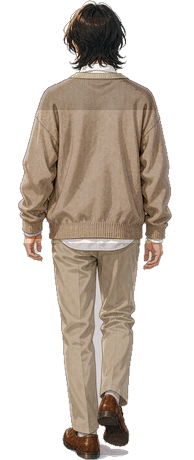
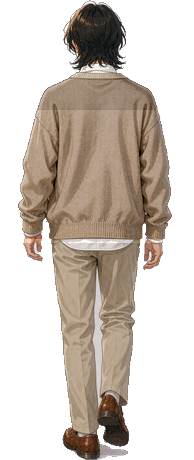
fix: 立绘毛边与领口发黑；门口「进入XX」标签可直接点击
两件事：

1) 毛边：web 端 standeeTexture 加载后用 matteStandee 再抠一次。离线素材本来就有
   透明底，泛洪什么也没干，但最后那段「边缘 alpha 强制 168」把所有抗锯齿边缘
   钉成半透明，而它们的 RGB 还混着白底 → 草地上出现一圈浅灰描边。
   改成先测四角 alpha，已经是透明底就直接用原图，不再走 matteStandee。

2) 领口发黑：之前统一明度增益把白衬衫也压暗了（衬衫中位 211,201,192，
   阴影处 169,158,147）。新增 tools/clean-sprite.py：按 alpha 反预乘去掉边缘
   混进去的白，再把「低饱和 + 够亮」的像素往白里提，暖色开衫不动。
   林知夏 9 张立绘已跑过一遍。

3) 顺带：门口那块「进入XX」是画布上画的，之前点它只是走过去。
   现在点它直接进入，悬停时显示手型。

图片版本串 ?v=11 → ?v=12。

diff --git a/campus-life/web/bundle.js b/campus-life/web/bundle.js
@@ -2029,6 +2029,23 @@ const FIG = {
 const STANDEE_SRC = 'assets/characters/';
 const _standeeCache = {};
 
+/* 四角采样判断这张图是不是已经带透明底 */
+function isPreMatted(img) {
+  const iw = img.naturalWidth || img.width;
+  const ih = img.naturalHeight || img.height;
+  if (!iw || !ih) return false;
+  if (typeof document === 'undefined' || !document.createElement) return false;
+  const cv = document.createElement('canvas');
+  cv.width = 8; cv.height = 8;
+  const g = cv.getContext('2d');
+  if (!g) return false;
+  g.drawImage(img, 0, 0, 8, 8);
+  const d = g.getImageData(0, 0, 8, 8).data;
+  let clear = 0;
+  for (let i = 3; i < d.length; i += 4) if (d[i] < 12) clear++;
+  return clear >= 48;                 // 64 个采样点里大半透明，就当已抠好
+}
+
 function matteStandee(img) {
   const iw = img.naturalWidth || img.width;
   const ih = img.naturalHeight || img.height;
@@ -2100,7 +2117,16 @@ function standeeTexture(id, view) {
   _standeeCache[key] = null;
   if (typeof document === 'undefined' || !document.createElement) return null;
   const img = document.createElement('img');
-  img.onload = () => { const sp = matteStandee(img); if (sp) _standeeCache[key] = sp; };
+  img.onload = () => {
+    // 离线已经抠好透明底的图，不能再走一遍泛洪 + 强制 alpha：
+    // matteStandee 会把边缘像素的 alpha 钉成 168，而它们的 RGB 仍混着白底，
+    // 画到草地上就是一圈浅灰描边。
+    if (isPreMatted(img)) {
+      _standeeCache[key] = { cv: img, w: img.naturalWidth, h: img.naturalHeight };
+      return;
+    }
+    const sp = matteStandee(img); if (sp) _standeeCache[key] = sp;
+  };
   img.src = STANDEE_SRC + id + '_standee' + suffix + '.png';
   return null;
 }
@@ -2129,7 +2155,7 @@ function walkTexture(id, n, view) {
   // 侧面沿用旧命名；正面 / 背面加 f / b 后缀，各自是独立素材
   const tail = v === 'front' ? '_walk_f' + n : v === 'back' ? '_walk_b' + n : '_walk' + n;
   // 换图后必须带版本串：预览面板会按 URL 缓存旧图，导致「站着是新形象、一走还是旧图」
-  img.src = STANDEE_SRC + id + tail + '.png?v=11';
+  img.src = STANDEE_SRC + id + tail + '.png?v=12';
   return null;
 }
 

diff --git a/campus-life/miniprogram/engine/renderer.js b/campus-life/miniprogram/engine/renderer.js
@@ -83,6 +83,23 @@ const FIG = {
 const STANDEE_SRC = 'assets/characters/';
 const _standeeCache = {};
 
+/* 四角采样判断这张图是不是已经带透明底 */
+function isPreMatted(img) {
+  const iw = img.naturalWidth || img.width;
+  const ih = img.naturalHeight || img.height;
+  if (!iw || !ih) return false;
+  if (typeof document === 'undefined' || !document.createElement) return false;
+  const cv = document.createElement('canvas');
+  cv.width = 8; cv.height = 8;
+  const g = cv.getContext('2d');
+  if (!g) return false;
+  g.drawImage(img, 0, 0, 8, 8);
+  const d = g.getImageData(0, 0, 8, 8).data;
+  let clear = 0;
+  for (let i = 3; i < d.length; i += 4) if (d[i] < 12) clear++;
+  return clear >= 48;                 // 64 个采样点里大半透明，就当已抠好
+}
+
 function matteStandee(img) {
   const iw = img.naturalWidth || img.width;
   const ih = img.naturalHeight || img.height;
@@ -154,7 +171,16 @@ function standeeTexture(id, view) {
   _standeeCache[key] = null;
   if (typeof document === 'undefined' || !document.createElement) return null;
   const img = document.createElement('img');
-  img.onload = () => { const sp = matteStandee(img); if (sp) _standeeCache[key] = sp; };
+  img.onload = () => {
+    // 离线已经抠好透明底的图，不能再走一遍泛洪 + 强制 alpha：
+    // matteStandee 会把边缘像素的 alpha 钉成 168，而它们的 RGB 仍混着白底，
+    // 画到草地上就是一圈浅灰描边。
+    if (isPreMatted(img)) {
+      _standeeCache[key] = { cv: img, w: img.naturalWidth, h: img.naturalHeight };
+      return;
+    }
+    const sp = matteStandee(img); if (sp) _standeeCache[key] = sp;
+  };
   img.src = STANDEE_SRC + id + '_standee' + suffix + '.png';
   return null;
 }
@@ -183,7 +209,7 @@ function walkTexture(id, n, view) {
   // 侧面沿用旧命名；正面 / 背面加 f / b 后缀，各自是独立素材
   const tail = v === 'front' ? '_walk_f' + n : v === 'back' ? '_walk_b' + n : '_walk' + n;
   // 换图后必须带版本串：预览面板会按 URL 缓存旧图，导致「站着是新形象、一走还是旧图」
-  img.src = STANDEE_SRC + id + tail + '.png?v=11';
+  img.src = STANDEE_SRC + id + tail + '.png?v=12';
   return null;
 }
 

diff --git a/campus-life/web/app.js b/campus-life/web/app.js
@@ -1,4 +1,4 @@
-const { CHARACTERS, STAT_META, EVENTS, NPCS, REQUESTS, CHAIN_EVENTS, LEGACY_OPTIONS, HIDDEN_EVENTS, affinityTier, getExamQuestions, semesterLabel, statName } = CampusRequire('content');
+const { CHARACTERS, STAT_META, EVENTS, NPCS, BUILDINGS, REQUESTS, CHAIN_EVENTS, LEGACY_OPTIONS, HIDDEN_EVENTS, affinityTier, getExamQuestions, semesterLabel, statName } = CampusRequire('content');
 const { GameCore } = CampusRequire('core');
 const { buildChoiceLogView } = CampusRequire('choicelog');
 const { randomSeedCode, resolveSeedInput, applySeedInput } = CampusRequire('random');
@@ -655,9 +655,28 @@ window.addEventListener('keyup', event => {
   const key = event.key.length === 1 ? event.key.toLowerCase() : event.key;
   world.setKey(key, false);
 });
+/* 门口那块「进入XX」是画在画布上的，点它应该直接进去，而不是先走过去再点卡片 */
+function hitDoorLabel(point) {
+  const near = renderer.nearby;
+  if (!near || !near.event) return false;
+  const building = BUILDINGS.find(b => b.id === near.id);
+  if (!building) return false;
+  return point.x > building.doorX - 78 && point.x < building.doorX + 78 &&
+         point.y > building.doorY - 46 && point.y < building.doorY - 6;
+}
+
 $('#campus').addEventListener('pointerdown', event => {
   if (modal || event.pointerType === 'touch') return;
-  const point = renderer.screenToWorld(event.clientX, event.clientY); world.setTarget(point.x, point.y);
+  const point = renderer.screenToWorld(event.clientX, event.clientY);
+  if (hitDoorLabel(point)) { interact(); return; }
+  world.setTarget(point.x, point.y);
+});
+
+// 悬在「进入XX」上时给个手型，让人知道能点
+$('#campus').addEventListener('pointermove', event => {
+  if (modal) return;
+  const point = renderer.screenToWorld(event.clientX, event.clientY);
+  $('#campus').style.cursor = hitDoorLabel(point) ? 'pointer' : 'default';
 });
 const joystick = $('#joystick'); const knob = $('#joy-knob');
 function moveJoystick(event) {

diff --git a/campus-life/web/index.html b/campus-life/web/index.html
@@ -52,6 +52,6 @@
     <button id="exam-button" class="exam-button hidden">期末周已到达 · 进入考试 →</button>
     <div id="modal-mask" class="modal-mask hidden"><div id="modal-content"></div></div>
   </main>
-  <script src="bundle.js?v=c2001cce"></script><script src="app.js?v=c2001cce"></script>
+  <script src="bundle.js?v=b92ad147"></script><script src="app.js?v=b92ad147"></script>
 </body>
 </html>
